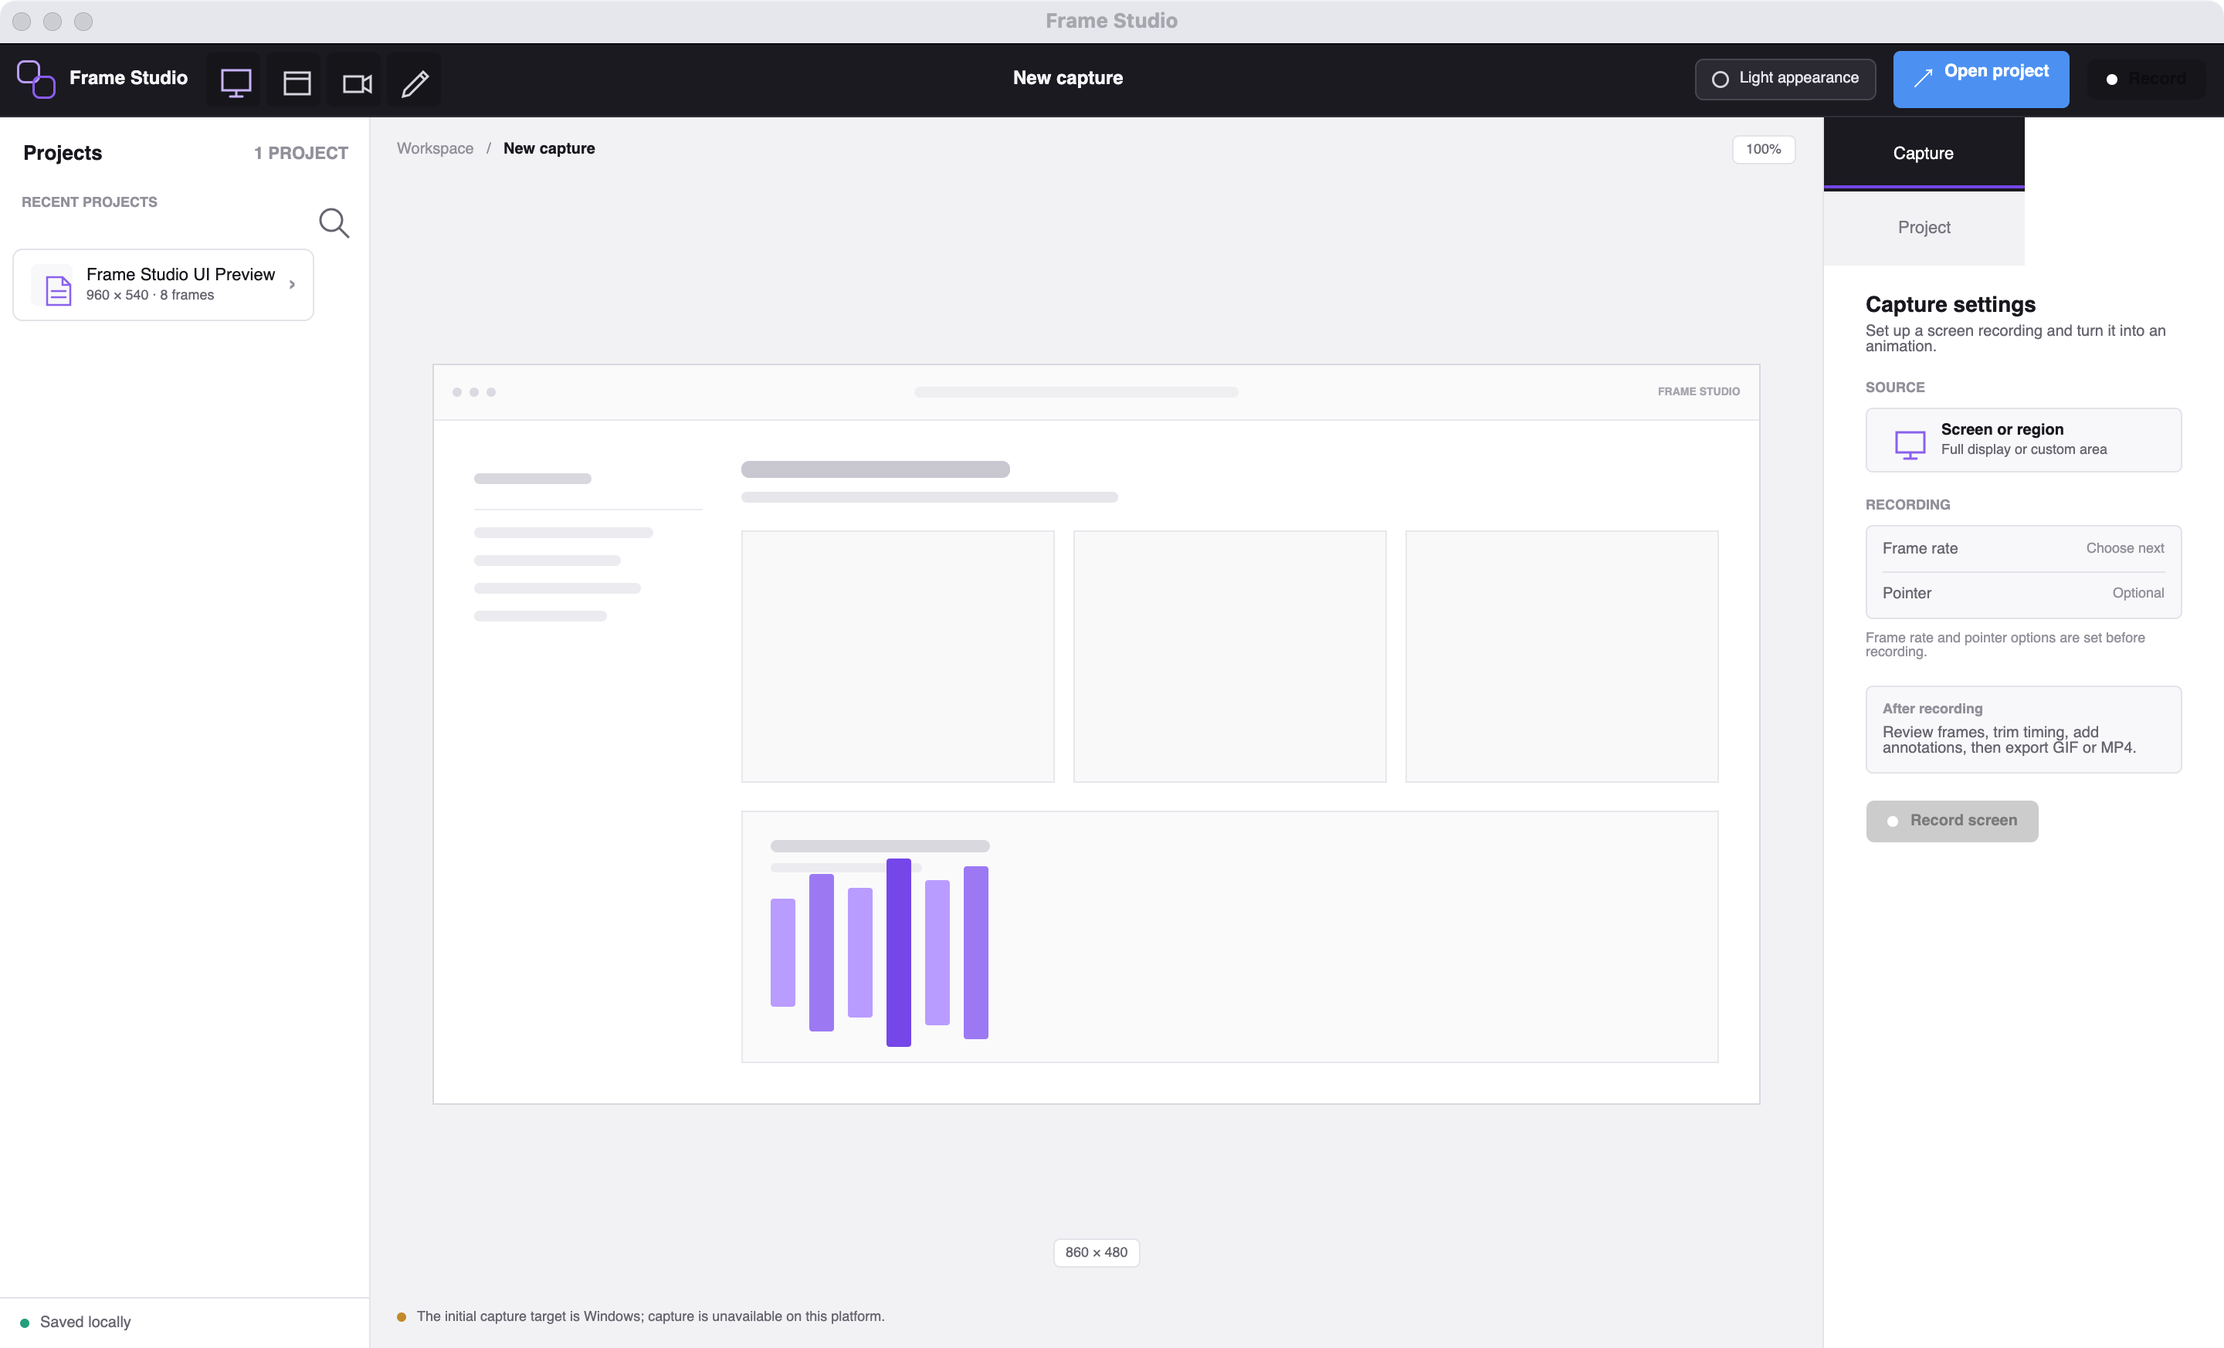
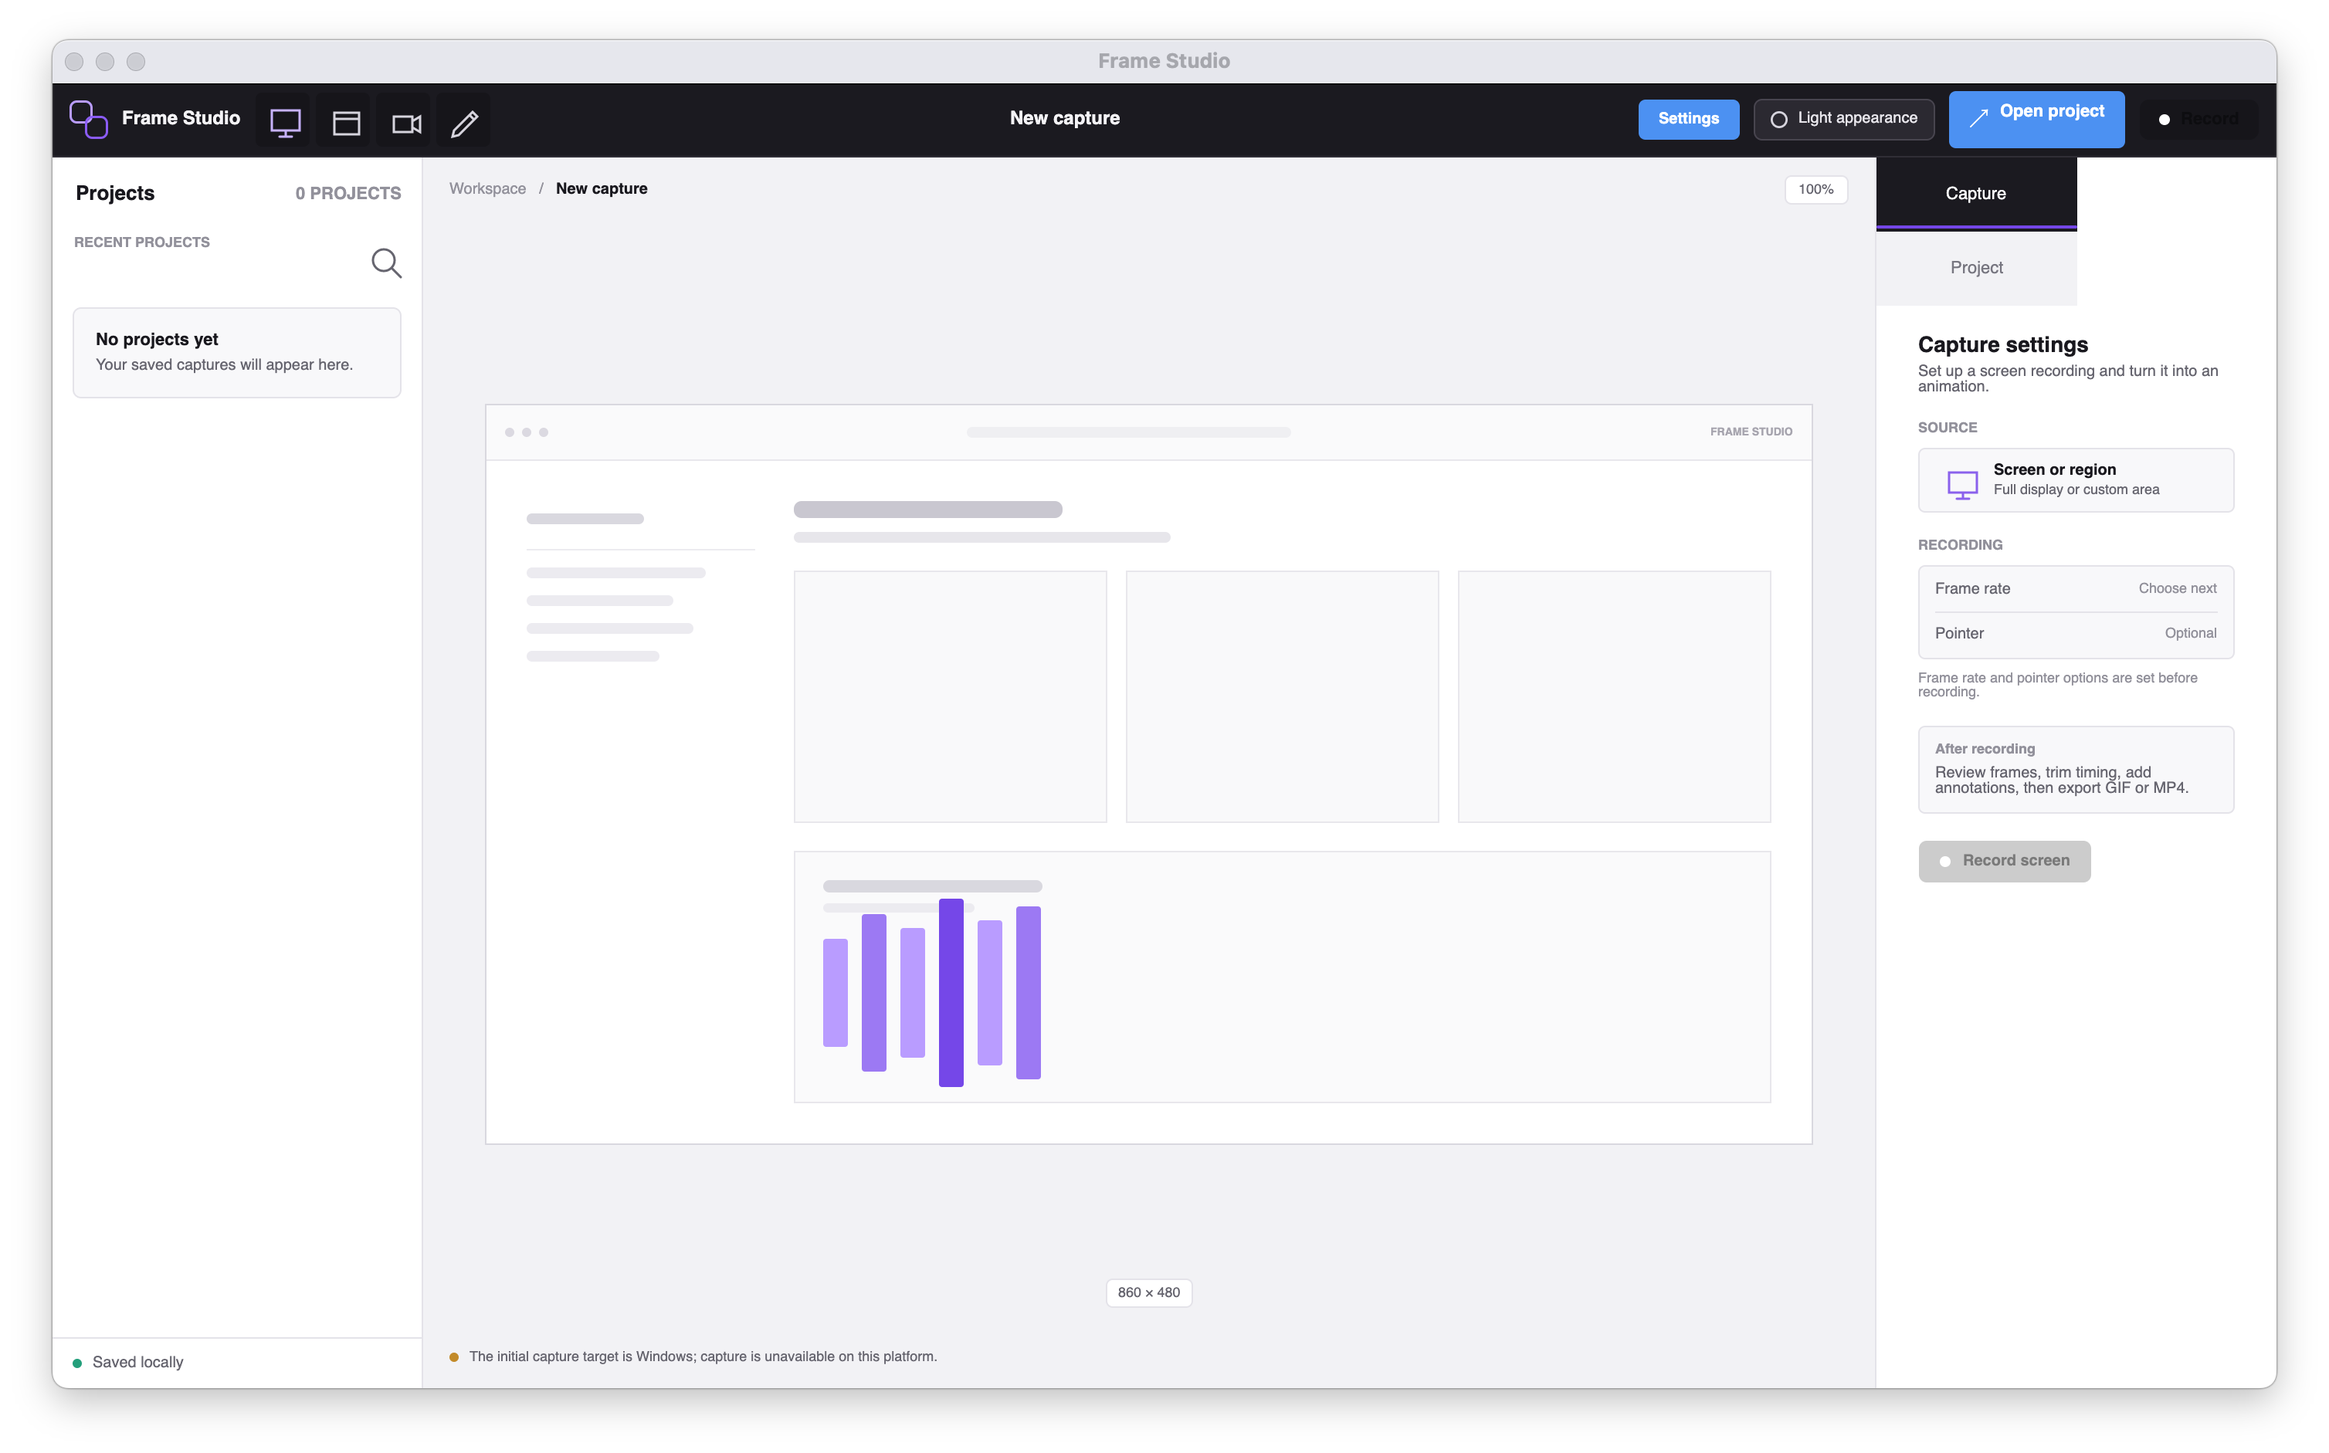
docs: refresh Windows candidate and UI evidence

diff --git a/docs/WINDOWS_VALIDATION.md b/docs/WINDOWS_VALIDATION.md
@@ -4,14 +4,15 @@ The Windows native capture backend now passes its integration suite on a hosted 
 
 ## Current Windows candidate (2026-10-11)
 
-- App-code commit: `cc0aefd8710cd4ff7bdc55783291cc12fd037bf5`, built directly from the `avalonia-port` branch by CI run 38117042135; the bundled README records source revision `cc0aefd`.
-- Download: [FrameStudio-win-x64 CI artifact](https://github.com/kris70lesgo/frame-studio/actions/runs/38117042135/artifacts/11694560277), produced by [GitHub Actions run 38117042135](https://github.com/kris70lesgo/frame-studio/actions/runs/38117042135) on Windows AMD64 with .NET SDK `9.0.318`.
+- PR head: `70ca2ca552d810ec302bfc415c485adaf4122059`; the latest app-code commit is `cc0aefd8710cd4ff7bdc55783291cc12fd037bf5` (later branch commits update documentation only).
+- The bundled README records source revision `d0cce52`, GitHub's synthetic merge checkout of PR head `70ca2ca5` into base `d19c2447`.
+- Download: [FrameStudio-win-x64 CI artifact](https://github.com/kris70lesgo/frame-studio/actions/runs/38117588655/artifacts/11693992445), produced by [GitHub Actions run 38117588655](https://github.com/kris70lesgo/frame-studio/actions/runs/38117588655) on Windows AMD64 with .NET SDK `9.0.318`.
 - Local package: [dist/FrameStudio-win-x64.zip](/Users/agastya/Documents/alvonia/ScreenToGif/dist/FrameStudio-win-x64.zip) (self-contained `win-x64`; package directory is ignored by Git).
[1 lines of base64/hex data omitted]
-- I downloaded the artifact and verified its SHA-256 against GitHub's checksum file, then verified the ZIP with `unzip -t`. The package includes the executable, README, and complete license. The hosted Windows smoke confirmed a top-level window titled “Frame Studio”; the package README distinguishes that check from the still-unverified interactive workflow.
[1 lines of base64/hex data omitted]
+- I downloaded this latest PR-head artifact, verified its SHA-256 against the included checksum file, then verified the ZIP with `unzip -t`. The package includes the executable, README, and complete license. The hosted Windows smoke confirmed a top-level window titled “Frame Studio”; the package README distinguishes that check from the still-unverified interactive workflow.
 - The artifact requires a GitHub account with repository read access. The public Preview 3 release below is older and does not contain the latest UI redesign. The current Windows-built candidate has not been launched in an interactive Windows desktop session and is not a verified capture release.
 - The latest local macOS Release test run passed 48 tests and skipped four Windows-only desktop checks, including the screen and window desktop integrations.
-- [GitHub Actions run 38117042135](https://github.com/kris70lesgo/frame-studio/actions/runs/38117042135) passed macOS and Windows builds/tests plus Windows x64 packaging. Both hosted platforms passed 44 deterministic tests and skipped one FFmpeg-dependent MP4 test; Windows passed all 7 `WindowsCaptureIntegrationTests` and confirmed the packaged app created a top-level window titled “Frame Studio” within 10 seconds. Native checks cover affinity lifecycle, screen stream shape and pause/resume/stop, and pixel-accurate `PrintWindow` output under an overlapping window. This proves backend checks and window creation on a hosted runner only; it does not validate interactive controls, app-window exclusion in recordings, or mixed-DPI selection on your desktop.
+- [GitHub Actions run 38117588655](https://github.com/kris70lesgo/frame-studio/actions/runs/38117588655) passed macOS and Windows builds/tests plus Windows x64 packaging for the latest PR head. Both hosted platforms passed 44 deterministic tests and skipped one FFmpeg-dependent MP4 test; Windows passed all 7 `WindowsCaptureIntegrationTests` and confirmed the packaged app created a top-level window titled “Frame Studio” within 10 seconds. Native checks cover affinity lifecycle, screen stream shape and pause/resume/stop, and pixel-accurate `PrintWindow` output under an overlapping window. This proves backend checks and window creation on a hosted runner only; it does not validate interactive controls, app-window exclusion in recordings, or mixed-DPI selection on your desktop.
 
 ## Download, verify, and launch
 
@@ -22,7 +23,7 @@ The Windows native capture backend now passes its integration suite on a hosted 
    Get-FileHash .\FrameStudio-win-x64.zip -Algorithm SHA256
    ```
 
[2 lines of base64/hex data omitted]
 3. Extract the candidate and launch the app:
 
    ```powershell
@@ -48,7 +49,7 @@ Run from a Windows 10 version 2004+ or Windows 11 desktop session with at least 
 dotnet test FrameStudio.sln --configuration Debug
 ```
 
-`WindowsCaptureIntegrationTests` includes three request-validation checks that run on every OS. Its four Windows checks cover capture-window affinity apply/restore, cleanup after a window closes, screen-frame dimensions and pause/resume/stop, and pixel-accurate `PrintWindow` output when another window overlaps the target. All 7 checks passed on hosted Windows in [run 38117042135](https://github.com/kris70lesgo/frame-studio/actions/runs/38117042135); the four desktop checks skip on macOS. The hosted tests and main-window smoke are backend/launch evidence only; they do not replace launching Frame Studio on the target Windows desktop and checking the actual recorder windows, display picker, and mixed-DPI behavior.
+`WindowsCaptureIntegrationTests` includes three request-validation checks that run on every OS. Its four Windows checks cover capture-window affinity apply/restore, cleanup after a window closes, screen-frame dimensions and pause/resume/stop, and pixel-accurate `PrintWindow` output when another window overlaps the target. All 7 checks passed on hosted Windows in [run 38117588655](https://github.com/kris70lesgo/frame-studio/actions/runs/38117588655); the four desktop checks skip on macOS. The hosted tests and main-window smoke are backend/launch evidence only; they do not replace launching Frame Studio on the target Windows desktop and checking the actual recorder windows, display picker, and mixed-DPI behavior.
 
 The MP4 editor-export integration test requires both `ffmpeg` and `ffprobe` on `PATH`. It checks an edited two-frame project with changed durations by reading the emitted MP4 presentation timestamps.
 

diff --git a/README.md b/README.md
@@ -26,7 +26,7 @@ The Avalonia app connects Windows screen-region recording to a native `.fsp` pro
 | GIF export | Migrated encoder, editor export flow, and completion actions for opening the GIF, showing its folder, or copying its path |
 | MP4 export | H.264 MP4 through FFmpeg's `libx264`, with variable frame durations preserved; requires FFmpeg on `PATH` with `libx264` enabled |
 | Settings and additional formats | Persistent local preferences cover light/dark appearance and default recording FPS/pointer inclusion; Editor, Export, Shortcuts, and Advanced preference categories plus APNG, image sequence, PSD, and additional video formats are not migrated |
-| Core workflow checks | The current local Release build completes with zero warnings/errors; 48 tests pass and four Windows-only desktop checks skip on macOS. [Windows CI run 38117042135](https://github.com/kris70lesgo/frame-studio/actions/runs/38117042135) passed 44 deterministic tests (one FFmpeg-dependent skip), all 7 native capture tests, and the Windows package startup smoke. Native coverage includes app-window affinity lifecycle, screen-stream pause/resume/stop, and pixel-accurate isolated-window rendering while another window overlaps it. These checks do not verify the interactive Avalonia workflow or mixed-DPI desktop behavior. Cross-platform checks cover recording → edit → save/reopen → GIF export, editor commands, text/freehand overlays, recovery, project archives, GIF pixels/timing, MP4 timing, and screen-region scaling logic |
+| Core workflow checks | The current local Release build completes with zero warnings/errors; 48 tests pass and four Windows-only desktop checks skip on macOS. [Latest PR-head CI run 38117588655](https://github.com/kris70lesgo/frame-studio/actions/runs/38117588655) passed on `70ca2ca5`: 44 deterministic tests (one FFmpeg-dependent skip), all 7 native capture tests, and the Windows package startup smoke. Native coverage includes app-window affinity lifecycle, screen-stream pause/resume/stop, and pixel-accurate isolated-window rendering while another window overlaps it. These checks do not verify the interactive Avalonia workflow or mixed-DPI desktop behavior. Cross-platform checks cover recording → edit → save/reopen → GIF export, editor commands, text/freehand overlays, recovery, project archives, GIF pixels/timing, MP4 timing, and screen-region scaling logic |
 | Webcam and sketchboard | Not migrated yet |
 | Annotations and video export | Rasterized text and freehand overlays plus H.264 MP4 export are implemented; additional video encoders are not migrated yet |
 | Windows platform adapter | Win32 monitor/window enumeration, bounded GDI screen capture, isolated-window rendering, and app-window exclusion implemented; native CI passes. Interactive UI, app-window exclusion in actual recordings, and mixed-DPI validation remain pending |
@@ -55,7 +55,7 @@ No active-work timer was kept, so total hands-on effort is unknown. The first ap
 
 ## UI previews
 
-These macOS captures show the Avalonia home workspace and editor with a synthetic sample project. The home capture predates the new Settings button. They are useful for reviewing the redesigned UI, but they are not Windows before-and-after comparisons and do not validate native screen recording. The [capture notes](docs/before-after/README.md) describe the remaining Windows screenshot pairs.
+These macOS captures show the Avalonia home workspace and editor with synthetic sample content. The home capture was refreshed from the current Release build on October 11 and includes Settings. They are useful for reviewing the redesigned UI, but they are not Windows before-and-after comparisons and do not validate native screen recording. The [capture notes](docs/before-after/README.md) describe the remaining Windows screenshot pairs.
 
 ![Frame Studio home workspace preview on macOS](docs/before-after/after-home-current-macos.png)
 

diff --git a/docs/MIGRATION.md b/docs/MIGRATION.md
@@ -9,6 +9,13 @@ This log records the independent Avalonia port of ScreenToGif. The port uses new
[1 lines of base64/hex data omitted]
 - This is a Windows-built validation candidate, not a verified release. An interactive Windows run and same-content WPF/Avalonia screenshots are still required before challenge submission.
 
+## 2026-10-11 — PR-head candidate and current home preview
+
+- Rebuilt the self-contained Windows candidate from the latest PR-head workflow [run 38117588655](https://github.com/kris70lesgo/frame-studio/actions/runs/38117588655), head `70ca2ca552d810ec302bfc415c485adaf4122059`. The packaged README records `d0cce52`, GitHub's synthetic merge checkout of that PR head into base `d19c2447`; the latest application-code commit remains `cc0aefd`.
[1 lines of base64/hex data omitted]
+- Re-ran the local Release build and tests: zero warnings/errors, 48 passed, and four Windows-only desktop tests skipped on macOS. The PR-head CI run also passed macOS/Windows build and test jobs, all 7 native Windows checks, and packaged-app startup smoke.
+- Captured the current Release home window on macOS; the new image includes Settings. This supplements the UI preview only. Interactive Windows workflow validation and same-content WPF/Avalonia screenshots remain outstanding.
+
 ## 2026-10-11 — Persistent preferences
 
 - Added a local JSON preferences store and a preferences window for theme, default recording frame rate, and pointer inclusion. The capture setup now starts with the saved recording defaults; theme changes persist immediately.

diff --git a/docs/WINDOWS_TEST_RESULTS_TEMPLATE.md b/docs/WINDOWS_TEST_RESULTS_TEMPLATE.md
@@ -2,14 +2,15 @@
 
 Fill this out while running the current Windows candidate. Replace each `TBD` with the observed result; write `not tested` when a check cannot be run. Keep failures and limitations visible.
 
-Hosted run [38117042135](https://github.com/kris70lesgo/frame-studio/actions/runs/38117042135) passed all 7 native capture checks and confirmed the packaged app created its “Frame Studio” main window. This record is for the separate interactive app, desktop, and screenshot checks.
+Hosted run [38117588655](https://github.com/kris70lesgo/frame-studio/actions/runs/38117588655) passed all 7 native capture checks and confirmed the packaged app created its “Frame Studio” main window. This record is for the separate interactive app, desktop, and screenshot checks.
 
 ## Test environment
 
-- App-code commit: `cc0aefd8710cd4ff7bdc55783291cc12fd037bf5`
-- Package revision from bundled README: `cc0aefd`
[1 lines of base64/hex data omitted]
-- Candidate download: [FrameStudio-win-x64 artifact](https://github.com/kris70lesgo/frame-studio/actions/runs/38117042135/artifacts/11694560277)
+- PR head: `70ca2ca552d810ec302bfc415c485adaf4122059`
+- Latest app-code commit: `cc0aefd8710cd4ff7bdc55783291cc12fd037bf5`
+- Package revision from bundled README: `d0cce52` (GitHub synthetic merge checkout)
[1 lines of base64/hex data omitted]
+- Candidate download: [FrameStudio-win-x64 artifact](https://github.com/kris70lesgo/frame-studio/actions/runs/38117588655/artifacts/11693992445)
 - Windows edition and build: TBD
 - PC / CPU architecture: TBD
 - Display resolution and scale: TBD

diff --git a/docs/before-after/README.md b/docs/before-after/README.md
@@ -12,7 +12,7 @@ The upstream README at baseline commit [`a4d0a67`](https://github.com/NickeManar
 
 These are useful references for the original app's screens and behavior. They are not fresh captures from the exact baseline executable or same-content before/after pairs, so they should not be submitted as the challenge comparisons.
 
-`after-home-current-macos.png` and `after-editor-current-macos.png` are macOS visual-review captures of the Avalonia home workspace and editor using synthetic sample content. They document the redesigned UI, including the recent-project workspace, preview, timeline, drawing panel, and editor controls. They are supplemental UI previews only: they do not verify Windows screen recording or replace same-content WPF/Avalonia before-and-after pairs.
+`after-home-current-macos.png` and `after-editor-current-macos.png` are macOS visual-review captures of the Avalonia home workspace and editor using synthetic sample content. The home image was refreshed from the current Release build on 2026-10-11 and includes the Settings entry point; the editor image shows the preview, timeline, drawing panel, and editor controls. These are supplemental UI previews only: they do not verify Windows screen recording or replace same-content WPF/Avalonia before-and-after pairs.
 
 The older `after-home-shell-macos.png` and `after-editor-preview-macos.jpg` remain as historical shell checks. They predate the current editor workflow and should not be used as current screenshots.
 
